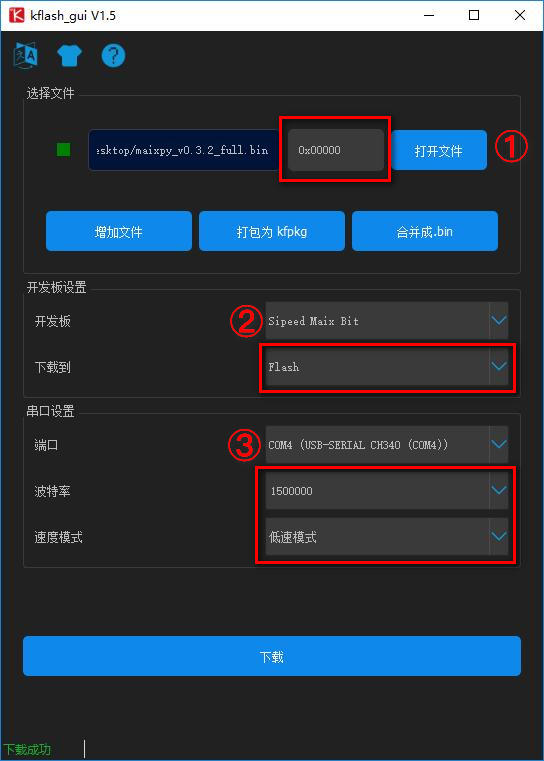
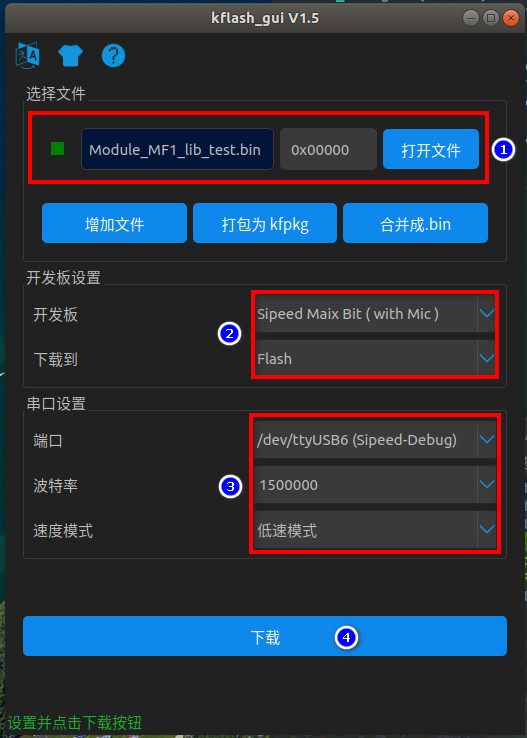
update pic

diff --git a/MF1模块二次开发说明.md b/MF1模块二次开发说明.md
@@ -78,7 +78,11 @@ cmake ../../../ && make
   
 具体流程为：
 
-- ① 打开需要烧录的固件，如果是`bin`文件，请确保地址为`0x00`,是`kfpkg`文件时，不需要选择地址
+- ① 打开需要烧录的固件，
+
+  如果是`bin`文件，请确保地址为`0x00`,
+  
+  是`kfpkg`文件时，不需要选择地址
 
 - ② 选择开发板型号，`MF1`模块请选择`Sipeed Maix Bit With Mic`
 
